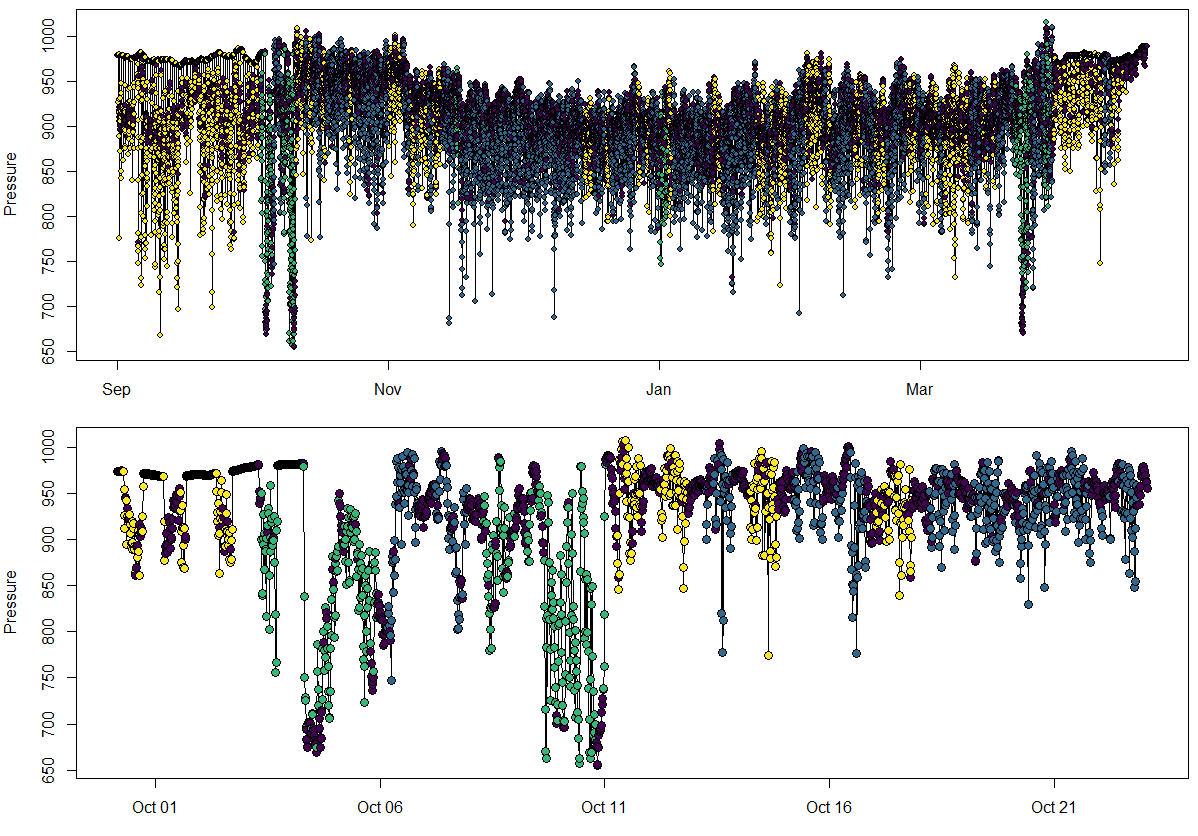
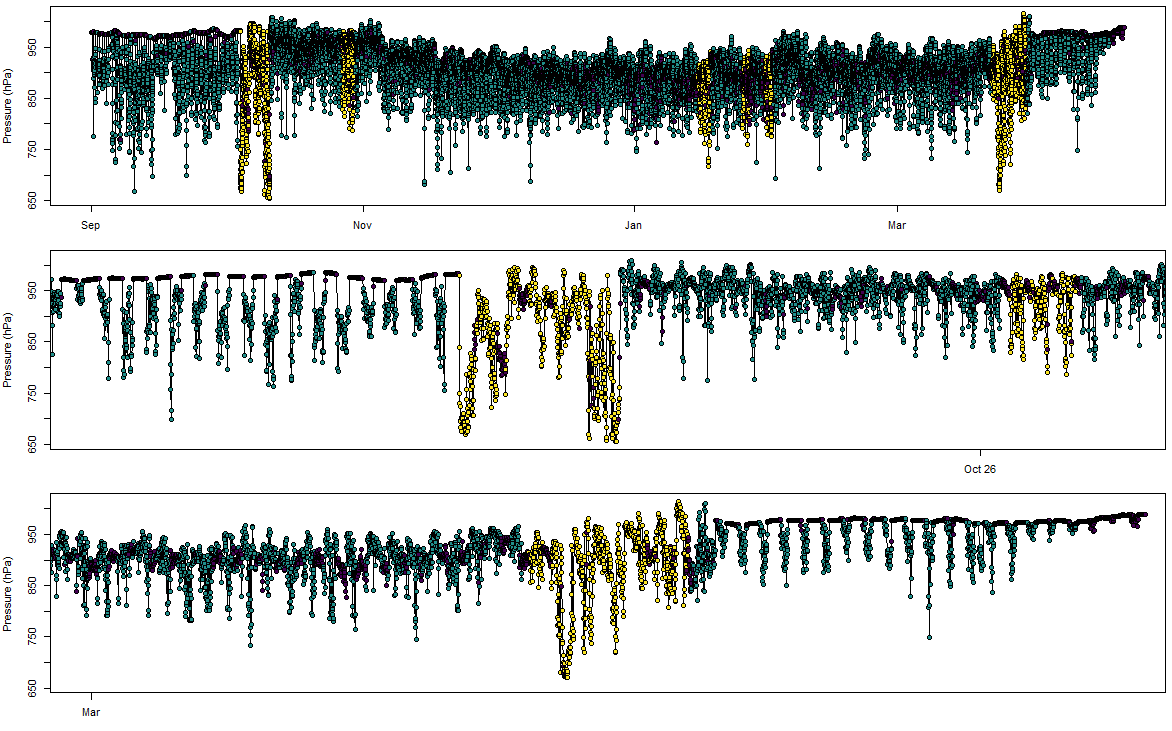
updated readme with swift classification

diff --git a/README.md b/README.md
@@ -348,7 +348,7 @@ legend(PAM_data$acceleration$date[index[1]],55,
 Srill under development. The species we are classifying is a European bee-eater
 
 <p>
-  <img align="center" src ="https://upload.wikimedia.org/wikipedia/commons/7/77/Gu%C3%A9piers_d%27europe_Ichkeul_%28European_Bee-eater%29_Merops_apiaster.jpg" alt>
+  <img align="center" src ="https://upload.wikimedia.org/wikipedia/commons/a/ae/Gu%C3%AApier_d%27Europe_Merops_apiaster_-_European_Bee-eater_%28parc_national_de_l%27Ichkeul%29_04.jpg" alt>
 </p>
 <p>
   <em> Photo by El Golli Mohamed, Creative commons </em>
@@ -684,43 +684,69 @@ addTWL(twilights$tFirst,
 We therefor derive similar metrics as with bee-eaters for classify with a hidden markov model, but focus more on night time activity and changes in pressure
 
 ```r
-# derive a whole bunch of measures which can be used to classifc the data later
-twl = GeoLight::twilightCalc(PAM_data$light$date, PAM_data$light$obs, LightThreshold = 2, ask = F)
-
-TOclassify = SOARprep(dta = PAM_data,
-                      availavariable = c("pressure", "acceleration","light"),
-                      twl=twl, diff_P=15)
-str(TOclassify)
+# find sunrises and sunsets in the data
+twl = GeoLight::twilightCalc(PAM_data$light$date, PAM_data$light$obs,
+                             LightThreshold = 2, ask = FALSE)
+                             
+TOclassify = SWIFTprep(dta = PAM_data,
+                       availavariable = c("pressure", "acceleration", "light"),
+                       keep_one_off_missclassifications = TRUE,
+                       twl = twl)
+# remove any NAs from the data
 TOclassify = TOclassify[complete.cases(TOclassify),]
 
-test = classifySWIFT(addTO = PAM_data$pressure,
-                     dta = TOclassify,
-                     method = "hmm", # or kmeans
-                     states = 3,
-                     availavariable = c("light", "pressure", "acceleration"))
 
+
+# to look at all the variables, this bit of code can be used
+# par(mfrow=c(4,1))
+# lapply(4:ncol(TOclassify), FUN = function(i){
+#   plot(TOclassify$date, TOclassify[,i], type = "l",
+#        ylab = colnames(TOclassify)[i])
+# })
+
+# Decide on using nightime activity and pressure changes to classify migration
+classifier = (TOclassify$median_night_act + TOclassify$median_nextnight_act) + (TOclassify$sd_night_P * TOclassify$sd_nextnight_P)
+
+# classify this data using the classifyPAM function
+classification = classifyPAM(scale(classifier, scale=T), states=2, "hmm")$cluster
 
 # add this classification
-pressure_classification = classification2PAM(from = TOclassify$start,
-                                              to =TOclassify$end,
-                                              classification = classification,
-                                              addTO = bee_eater$pressure)
-par(mar=c(3,4,0.5,0.5), mfrow=c(2,1))
+act_classification = classification2PAM(from = TOclassify$start,
+                                        to =TOclassify$end,
+                                        classification = classification,
+                                        addTO = PAM_data$acceleration )
 
-plot(PAM_data$pressure$date,PAM_data$pressure$obs,
-     bg=viridis::viridis(max(test$classification)+1)[test$classification+1],
-     type="o",
-     ylab="Pressure",
-     pch=21, cex=0.8 )
+# merge pressure and activity classification together to plot them
+toplot = merge(data.frame(PAM_data$acceleration, state=act_classification) ,
+               PAM_data$pressure , by="date")
 
-index=2800:5000
-plot(PAM_data$pressure$date[index],PAM_data$pressure$obs[index],
-     bg=viridis::viridis(max(test$classification)+1)[test$classification+1][index],
-     type="o",
-     ylab="Pressure",
-     pch=21, cex=1.2 )
+
+# plot the lot
+par(mfrow=c(3,1))
+plot(toplot$date, toplot$obs,
+     bg= viridis::viridis(max(toplot$state)+1)[toplot$state+1],
+     col="black",  type="o", pch=21,
+     xlab="Date", ylab="Pressure (hPa)")
+
+# south migration
+xlim= c(as.POSIXct("2016-09-19","%Y-%m-%d", tz="UTC"),
+        as.POSIXct("2016-11-01","%Y-%m-%d", tz="UTC"))
+plot(toplot$date, toplot$obs,
+     bg= viridis::viridis(max(toplot$state)+1)[toplot$state+1],
+     col="black",  type="o", pch=21,
+     xlim=xlim,
+     xlab="Date", ylab="Pressure (hPa)")
+
+# north migration
+xlim= c(as.POSIXct("2017-03-01","%Y-%m-%d", tz="UTC"),
+        as.POSIXct("2017-04-20","%Y-%m-%d", tz="UTC"))
+plot(toplot$date, toplot$obs,
+     bg= viridis::viridis(max(toplot$state)+1)[toplot$state+1],
+     col="black",  type="o", pch=21,
+     xlim=xlim,
+     xlab="Date", ylab="Pressure (hPa)")
+
 ```
-
 
 <img align="center" src="https://raw.githubusercontent.com/KiranLDA/PAMLr/master/graphics/classiswift.png">
 
